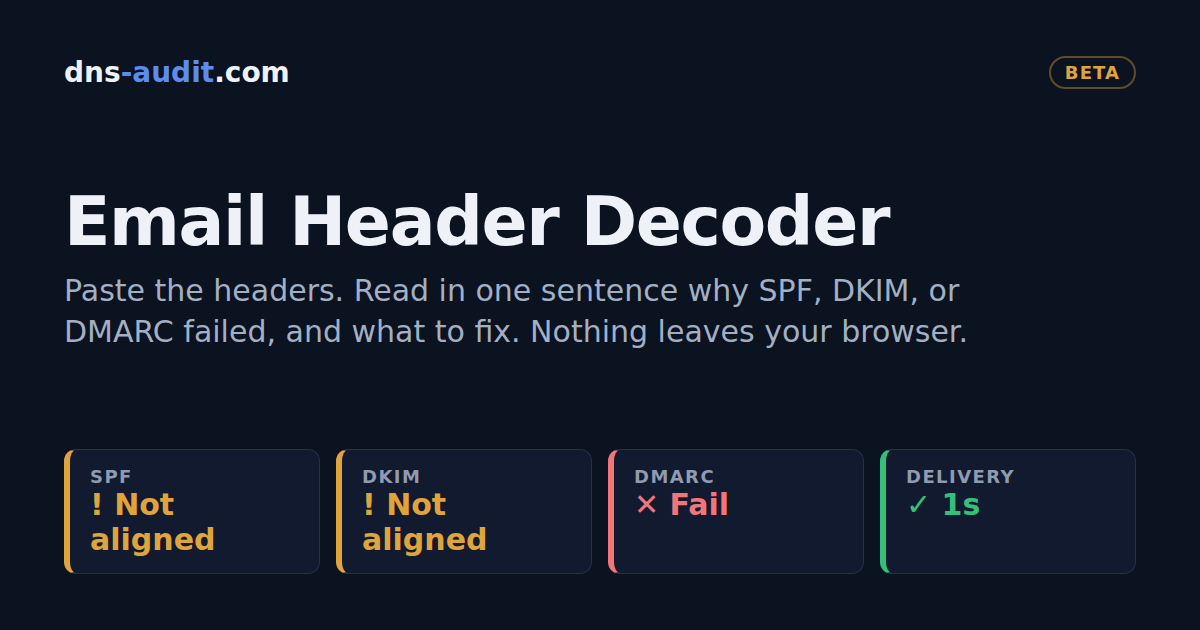
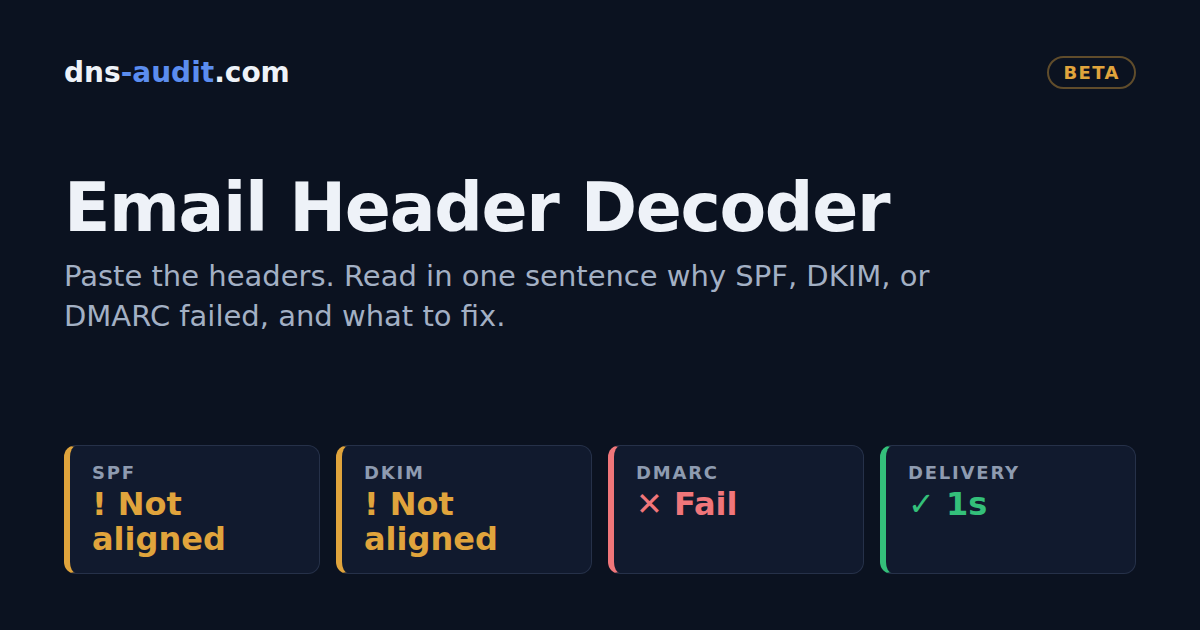
Share card without the browser line, with its source
ui/og-card.html is the card's source now, rendered to ui/og-card.png.

diff --git a/ui/og-card.html b/ui/og-card.html
@@ -1,0 +1,30 @@
+<!doctype html>
+<!-- The share card, 1200 by 630. Rendered to og-card.png with a headless browser. -->
+<meta charset="utf-8">
+<style>
+  body { margin: 0; width: 1200px; height: 630px; background: #0b1220; color: #eef2f8; font-family: system-ui, -apple-system, 'Segoe UI', Roboto, sans-serif; }
+  .card { box-sizing: border-box; width: 1200px; height: 630px; padding: 56px 64px; display: flex; flex-direction: column; }
+  .top { display: flex; justify-content: space-between; align-items: center; }
+  .logo { font-weight: 700; font-size: 28px; }
+  .logo span { color: #5b8def; }
+  .beta { color: #e0a43c; border: 2px solid rgba(224, 164, 60, 0.4); border-radius: 999px; padding: 4px 14px; font-weight: 700; font-size: 18px; letter-spacing: 0.08em; }
+  h1 { font-size: 68px; margin: 82px 0 10px; letter-spacing: -0.02em; line-height: 1.1; }
+  p { margin: 0; font-size: 29px; line-height: 1.4; color: #a3b0c4; max-width: 930px; }
+  .tiles { margin-top: auto; display: grid; grid-template-columns: repeat(4, 1fr); gap: 16px; }
+  .tile { background: #111a2e; border: 1px solid #263149; border-left: 6px solid #e0a43c; border-radius: 12px; padding: 16px 22px; }
+  .tile b { display: block; font-size: 18px; letter-spacing: 0.1em; color: #8e9bb0; }
+  .tile i { display: block; font-style: normal; font-weight: 700; font-size: 32px; margin-top: 4px; color: #e0a43c; line-height: 1.1; }
+  .fail { border-left-color: #f0767a; } .fail i { color: #f0767a; }
+  .ok { border-left-color: #34c07a; } .ok i { color: #34c07a; }
+</style>
+<div class="card">
+  <div class="top"><div class="logo">dns<span>-audit</span>.com</div><div class="beta">BETA</div></div>
+  <h1>Email Header Decoder</h1>
+  <p>Paste the headers. Read in one sentence why SPF, DKIM, or DMARC failed, and what to fix.</p>
+  <div class="tiles">
+    <div class="tile"><b>SPF</b><i>! Not aligned</i></div>
+    <div class="tile"><b>DKIM</b><i>! Not aligned</i></div>
+    <div class="tile fail"><b>DMARC</b><i>&#10005; Fail</i></div>
+    <div class="tile ok"><b>DELIVERY</b><i>&#10003; 1s</i></div>
+  </div>
+</div>
